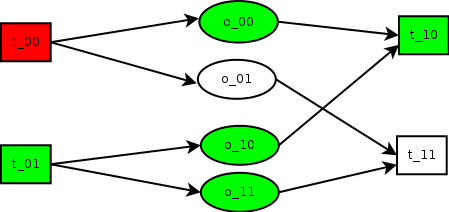
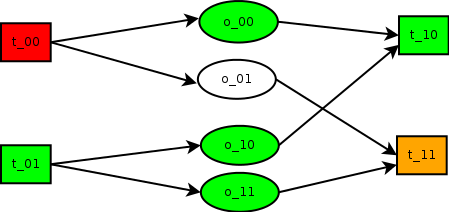
Modify the concurrent text.

Changed region(s): [[0.8731, 0.6226, 0.9978, 0.8208]]

diff --git a/concurrent.rst b/concurrent.rst
@@ -4,20 +4,24 @@ Disco Concurrent Stages
 Failure Recovery
 ----------
 
-In the concurrent stage model, the failure recovery is kept simple to control the
-complexity in the first iteration.
+In the concurrent stage model, the failure recovery is kept simple to minimize the
+complexity of the implementation.
+If a task fails, all of the tasks that could have consumed the outputs of this task
+will fail.
 
-If a task fails, all of the tasks that have consumed the outputs of this task will fail.
-No matter they have finished or not.
+For example, consider the following pipeline:
+In these figures:
+Tasks are shown with boxes. White box means the task has not started yet, orange box
+means the task is running, green box means task finished successfully and red box means
+the task has failed.
 
-instead of t_00 --> t'_00  is created.
+Data is shown with ovals. The green oval means an input that is available for
+consumption and white oval means a data that is not available yet.
 
-if a task of the next stage has not consumed the output of this task, there is
-no need to fail it.
 
-It is assumed that the order of the inputs is not important.  The inputs will be
-consumed as soon as they are available.
-
+Tasks t_00 and t_01 belong to the first stage which will run concurrently with
+the second stage.  That means, as soon as the outputs of these tasks are
+available, they will be consumed by the tasks of the next stage.
 
 .. image:: images/failure_S0.png
     :height: 400px
@@ -26,6 +30,14 @@ consumed as soon as they are available.
     :scale: 75 %
     :alt: a task in the first stage fails
 
+Now assume task t_00 fails.  The failure is propagated and all of the tasks that
+could have consume the inputs of this task will fail.
+This means tasks t_10 and t_11 in this figure will fail and restart.
+
+As you see it is a wasteful operation in this case because task t_10 has already
+finished successfully. However, in order to simplify the failure recovery, all
+of such tasks will be restarted on such a failure.  These failures might
+propagate to the future stages if there is any tasks running.
 
 .. image:: images/failure_S0_recovery.png
     :height: 400px
@@ -33,3 +45,13 @@ consumed as soon as they are available.
     :align: center
     :scale: 75 %
     :alt: recovery from the previous failure
+
+
+Please note that whether we persist the outputs of a task or not is orthogonal
+to the concurrent stages.  We might be able to speed up the pipeline by avoiding
+persistence of data on disk, however, if there is a failure, we have to
+backtrack and start over the tasks that produced such outputs.
+
+It is also assumed that the order of the inputs is not important.  The inputs will be
+consumed as soon as they are available.  Usually if the user does not specify an
+order, he or she will not care about the order at all.
